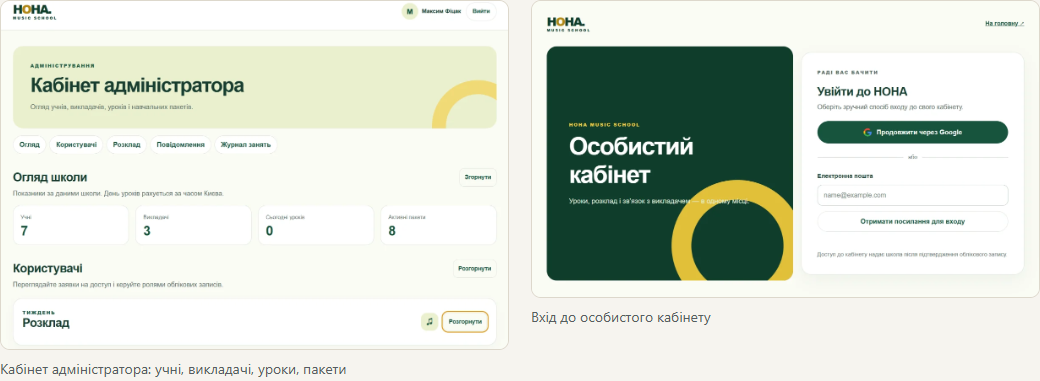
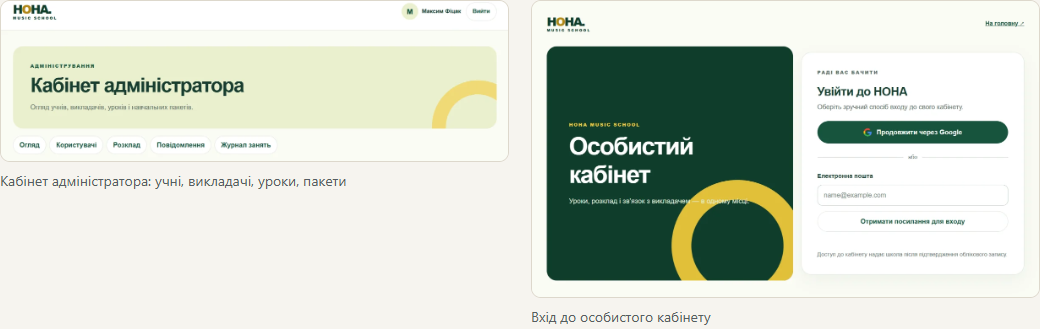
NONA admin screenshot: crop to the header and the tab row (no school numbers), new alt

diff --git a/ua/sites/index.html b/ua/sites/index.html
@@ -296,7 +296,7 @@
       </div>
       <div class="shots shots--pair">
         <figure class="shot">
-          <img src="../../assets/nona-admin.webp" width="1200" height="823" loading="lazy" decoding="async" alt="Кабінет адміністратора NONA: огляд школи з кількістю учнів, викладачів, уроків і активних пакетів">
+          <img src="../../assets/nona-admin.webp" width="1200" height="377" loading="lazy" decoding="async" alt="Кабінет адміністратора NONA: вкладки учнів, розкладу, повідомлень і журналу занять">
           <figcaption>Кабінет адміністратора: учні, викладачі, уроки, пакети</figcaption>
         </figure>
         <figure class="shot">

diff --git a/ua/index.html b/ua/index.html
@@ -191,7 +191,7 @@
       </div>
       <div class="shots shots--pair">
         <figure class="shot">
-          <img src="../assets/nona-admin.webp" width="1200" height="823" loading="lazy" decoding="async" alt="Кабінет адміністратора NONA: огляд школи з кількістю учнів, викладачів, уроків і активних пакетів">
+          <img src="../assets/nona-admin.webp" width="1200" height="377" loading="lazy" decoding="async" alt="Кабінет адміністратора NONA: вкладки учнів, розкладу, повідомлень і журналу занять">
           <figcaption>Кабінет адміністратора: учні, викладачі, уроки, пакети</figcaption>
         </figure>
         <figure class="shot">

diff --git a/sites/index.html b/sites/index.html
@@ -296,7 +296,7 @@
       </div>
       <div class="shots shots--pair">
         <figure class="shot">
-          <img src="../assets/nona-admin.webp" width="1200" height="823" loading="lazy" decoding="async" alt="NONA admin dashboard: school overview with the number of students, teachers, lessons and active packages">
+          <img src="../assets/nona-admin.webp" width="1200" height="377" loading="lazy" decoding="async" alt="NONA admin dashboard: tabs for users, schedule, messages and lesson log">
           <figcaption>Admin dashboard: students, teachers, lessons, packages</figcaption>
         </figure>
         <figure class="shot">

diff --git a/index.html b/index.html
@@ -191,7 +191,7 @@
       </div>
       <div class="shots shots--pair">
         <figure class="shot">
-          <img src="assets/nona-admin.webp" width="1200" height="823" loading="lazy" decoding="async" alt="NONA admin dashboard: school overview with the number of students, teachers, lessons and active packages">
+          <img src="assets/nona-admin.webp" width="1200" height="377" loading="lazy" decoding="async" alt="NONA admin dashboard: tabs for users, schedule, messages and lesson log">
           <figcaption>Admin dashboard: students, teachers, lessons, packages</figcaption>
         </figure>
         <figure class="shot">
